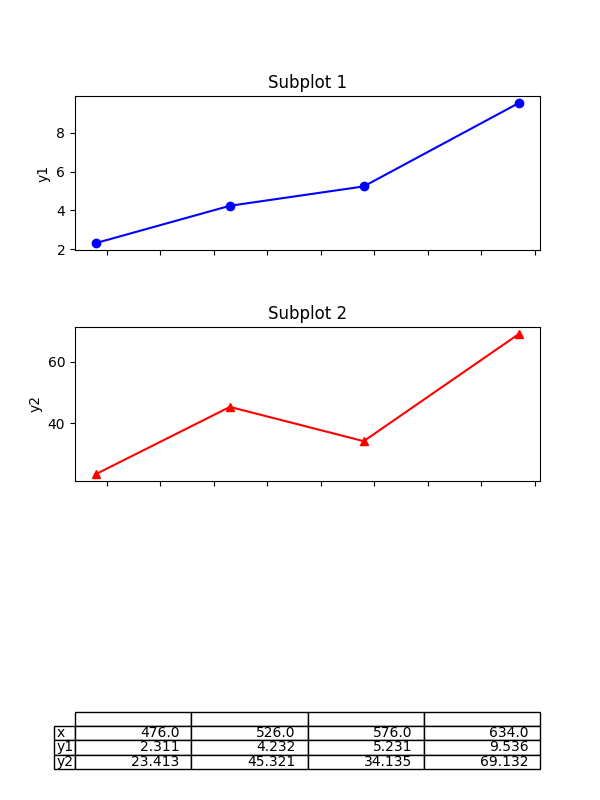
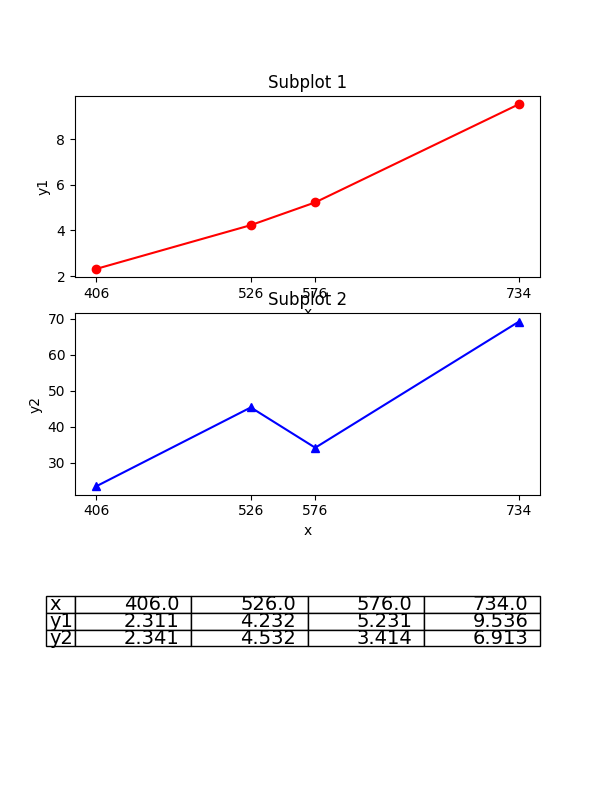
modify pic generator

diff --git a/cuda/src/dissect_page/draw.py b/cuda/src/dissect_page/draw.py
@@ -6,6 +6,7 @@ import matplotlib.pyplot as plt
 from matplotlib.ticker import MultipleLocator
 import numpy as np
 import csv
+from matplotlib.ticker import ScalarFormatter
 # example: python3 draw.py 3060
 
 
@@ -25,7 +26,7 @@ def readname(filePath):
 def get_inner(filename):
     i = filename.find('inner')
     if i > 0:
-        tail = filename.find('.', i, i+9)
+        tail = filename.find('.', i, len(filename))
         return int(filename[i+5:tail])
     return 1
 
@@ -93,8 +94,11 @@ for file in csvlist:
     # ax1.set_ylim((np.floor(minax[0]), np.ceil(minax[1])))
     ax1.set_xlabel('Data of GPU : '+GPU_name, fontsize=42)
     ax1.set_ylabel('EXEC_time', fontsize=36)
-    # y轴刻度值 10^3
-    ax1.yaxis.Exponent = 3
+    # 设置子图1的y轴刻度值用科学计数法表示
+    ax1.yaxis.set_major_formatter(ScalarFormatter(useMathText=True))
+    ax1.yaxis.offsetText.set_fontsize(28)
+    # 设置指数为4
+    ax1.ticklabel_format(axis='y', style='sci', scilimits=(4, 4))
     # 控制图例的形状大小：fontsize控制图例字体大小，markerscale控制scatters形状大小，scatterpoints控制scatters的数量
     ax1.legend(loc=2, fontsize=32, scatterpoints=1)
     # 设置 y 轴显示网格线
@@ -125,8 +129,10 @@ for file in csvlist:
     plt.savefig(pic_name)
     # plt.show()
 
-# 创建两个子图 -- 图3
-f, (time, hit) = plt.subplots(2, 1, figsize=(40, 34), sharex=True)
+# 创建3个子图 -- data_analysis
+# axs[0]:time axs[1]:hit_rate axs[2]:origin data
+fig, axs = plt.subplots(nrows=3, ncols=1, figsize=(80, 58))
+# f, (time, hit) = plt.subplots(2, 1, figsize=(40, 34), sharex=True)
 data_analysis = np.array(data_analysis)
 # 所有数据的对比图，按照inner排序后再绘制
 data_analysis = data_analysis[data_analysis[:, 0].argsort()]
@@ -138,47 +144,72 @@ hit_min = data_analysis[:, 4]
 hit_max = data_analysis[:, 5]
 hit_avg = data_analysis[:, 6]
 
-time.plot(inner_list, time_min, "g", marker='^',
-          markersize=5, label="time_min")
-time.plot(inner_list, time_max, "r", marker='v',
-          markersize=5, label="time_max")
-time.plot(inner_list, time_avg, "y", marker='o',
-          markersize=5, label="time_avg")
+axs[0].plot(inner_list, time_min, "g", marker='^',
+            linewidth=3, markersize=15, label="time_min")
+axs[0].plot(inner_list, time_max, "r", marker='v',
+            linewidth=3, markersize=15, label="time_max")
+axs[0].plot(inner_list, time_avg, "y", marker='o',
+            linewidth=3, markersize=15, label="time_avg")
 
 # x,y轴标签
-time.set_xlabel('inner * 4KB = Data Array Size', fontsize=36)
-time.set_ylabel('EXEC_time', fontsize=36)
+# axs[0].set_xlabel('inner * 4KB = Data Array Size', fontsize=36)
+axs[0].set_ylabel('EXEC_time', fontsize=52)
 # 控制图例的形状大小：fontsize控制图例字体大小，markerscale控制scatters形状大小，scatterpoints控制scatters的数量
-time.legend(loc=2, fontsize=32, scatterpoints=1)
+axs[0].legend(loc=2, fontsize=40, scatterpoints=1)
 # 设置 y 轴显示网格线
-time.grid(axis='y')
-# y轴刻度值 10^3
-time.yaxis.Exponent = 3
-# 折线图标题
-time.set_title('Data Analysis of GPU : '+GPU_name, fontsize=42)
-plt.setp(time.get_xticklabels(), fontsize=32)
-plt.setp(time.get_yticklabels(), fontsize=32)
+axs[0].grid(axis='y')
+axs[0].set_xticks(inner_list)
+axs[0].set_xticklabels(['{:g}'.format(x) for x in inner_list])
+# 设置x轴和y轴刻度值的字体大小
+axs[0].tick_params(axis='x', labelsize=46)
+axs[0].tick_params(axis='y', labelsize=46)
+# 设置子图1的y轴刻度值用科学计数法表示
+axs[0].yaxis.set_major_formatter(ScalarFormatter(useMathText=True))
+axs[0].yaxis.offsetText.set_fontsize(42)
+# 设置指数为4
+axs[0].ticklabel_format(axis='y', style='sci', scilimits=(4, 4))
+# 子图1标题
+axs[0].set_title('\n\n\n\n\nExection Time Trends\n', fontsize=58)
+
 # plt.tick_params(labelsize=32)  # 刻度字体大小
 
-hit.plot(inner_list, hit_min, "g", marker='^',
-         markersize=5, label="hit_rate_min")
-hit.plot(inner_list, hit_max, "r", marker='v',
-         markersize=5, label="hit_rate_max")
-hit.plot(inner_list, hit_avg, "y", marker='o',
-         markersize=5, label="hit_rate_avg")
+axs[1].plot(inner_list, hit_min, "g", marker='^',
+            linewidth=3, markersize=15, label="hit_rate_min")
+axs[1].plot(inner_list, hit_max, "r", marker='v',
+            linewidth=3, markersize=15, label="hit_rate_max")
+axs[1].plot(inner_list, hit_avg, "y", marker='o',
+            linewidth=3, markersize=15, label="hit_rate_avg")
 
 # x,y轴标签
-hit.set_xlabel('inner * 4KB = Data Array Size', fontsize=36)
-hit.set_ylabel('L2 Hit Rate %', fontsize=36)
+axs[1].set_ylabel('L2 Hit Rate %', fontsize=52)
 # 控制图例的形状大小：fontsize控制图例字体大小，markerscale控制scatters形状大小，scatterpoints控制scatters的数量
-hit.legend(loc=2, fontsize=32, scatterpoints=1)
+axs[1].legend(loc=6, fontsize=40, scatterpoints=1)
 # 设置 y 轴显示网格线
-hit.grid(axis='y')
+axs[1].grid(axis='y')
 # inner_list_str as x轴刻度
-inner_list_str = [str(int(x)) for x in inner_list]
-plt.xticks(inner_list, inner_list_str)
+axs[1].set_xticks(inner_list)
+axs[1].set_xticklabels(['{:g}'.format(x) for x in inner_list])
+# 设置x轴和y轴刻度值的字体大小
+axs[1].tick_params(axis='x', labelsize=46)
+axs[1].tick_params(axis='y', labelsize=46)
+axs[1].set_title('Hit Rate Trends\n', fontsize=58)
 
-plt.tick_params(labelsize=32)  # 刻度字体大小
+# 子图3：显示原始数据，保留8位小数
+cellT = np.around(np.vstack((time_max/10000, time_avg/10000,
+                  time_min/10000, inner_list, hit_max, hit_avg, hit_min)), 8)
+table = axs[2].table(cellText=cellT,
+                     rowLabels=['time_max', 'time_avg', 'time_min', ' ',
+                                'hit_max', 'hit_avg', 'hit_min'],  # 行标题
+                     loc='center')
+table.set_fontsize(44)
+table.scale(1, 10)
+axs[2].axis('off')  # 隐藏坐标轴和网格线
+axs[2].set_title('\n\nRaw Data Table', fontsize=60)
+# 将绘图区域与图片边缘的距离都设置为0.02
+plt.subplots_adjust(left=0.05, right=0.98, bottom=0.02, top=0.95)
+# 添加总标题
+plt.suptitle('Data Analysis of GPU : '+GPU_name +
+             '                                                                  inner * 4KB = Data Array Size', fontsize=64, y=0.97)
 
 # plt.gcf().autofmt_xdate()
 pic_name = PIC_DIR + "data_analysis.jpg"

diff --git a/cuda/lib/test.py b/cuda/lib/test.py
@@ -1,40 +1,40 @@
 #!/usr/bin/env python3
-from cProfile import label
-import os
-import sys
-import matplotlib.pyplot as plt
-from matplotlib.ticker import MultipleLocator
 import numpy as np
-import csv
+import matplotlib.pyplot as plt
 
 # 原始数据
 data = np.array([
-    [476, 526, 576, 634],
+    [406, 526, 576, 734],
     [2.311, 4.2322, 5.2311, 9.5364],
     [23.4131, 45.3212, 34.13511, 69.1324]
 ])
 print('0!\n')
 # 创建一个3行1列的figure对象，每行放一个subplot
-fig, axs = plt.subplots(nrows=3, ncols=1, figsize=(6, 8), sharex=True)
+fig, axs = plt.subplots(nrows=3, ncols=1, figsize=(6, 8))
 
-# 绘制子图1
-axs[0].plot(data[0], data[1], 'bo-')
+axs[0].plot(data[0], data[1], 'ro-')
 axs[0].set_title('Subplot 1')
+axs[0].set_xticks(data[0])
+axs[0].set_xticklabels(['{:g}'.format(x) for x in data[0]])
+axs[0].set_xlabel('x')
 axs[0].set_ylabel('y1')
-print('1!\n')
-# 绘制子图2
-axs[1].plot(data[0], data[2], 'r^-')
-axs[1].set_title('Subplot 2')
-axs[1].set_ylabel('y2')
-print('2!\n')
-# 绘制子图3
-axs[2].axis('off')  # 隐藏坐标轴和网格线
-axs[2].table(cellText=np.around(data, 3),  # 转置并保留三位小数
-             rowLabels=['x', 'y1', 'y2'],  # 行标题
-             colLabels=['', '', '', ''])  # 列标题
 
-# 调整subplot之间的间距
-plt.subplots_adjust(hspace=0.5)
+# 子图2：x轴使用第一行数据，y轴使用第三行数据
+axs[1].plot(data[0], data[2], 'b^-')
+axs[1].set_title('Subplot 2')
+axs[1].set_xticks(data[0])
+axs[1].set_xticklabels(['{:g}'.format(x) for x in data[0]])
+axs[1].set_xlabel('x')
+axs[1].set_ylabel('y2')
+
+# 子图3：显示原始数据
+cellT = np.around(np.vstack((data[0], data[1], data[2]/10)), 3)
+table = axs[2].table(cellText=cellT,  # 保留三位小数
+             rowLabels=['x', 'y1', 'y2'],  # 行标题
+             loc='center')  
+table.set_fontsize(14)
+# table.scale(1, 2)
+axs[2].axis('off')  # 隐藏坐标轴和网格线
 
 # 显示图形
 plt.savefig("t.png")
